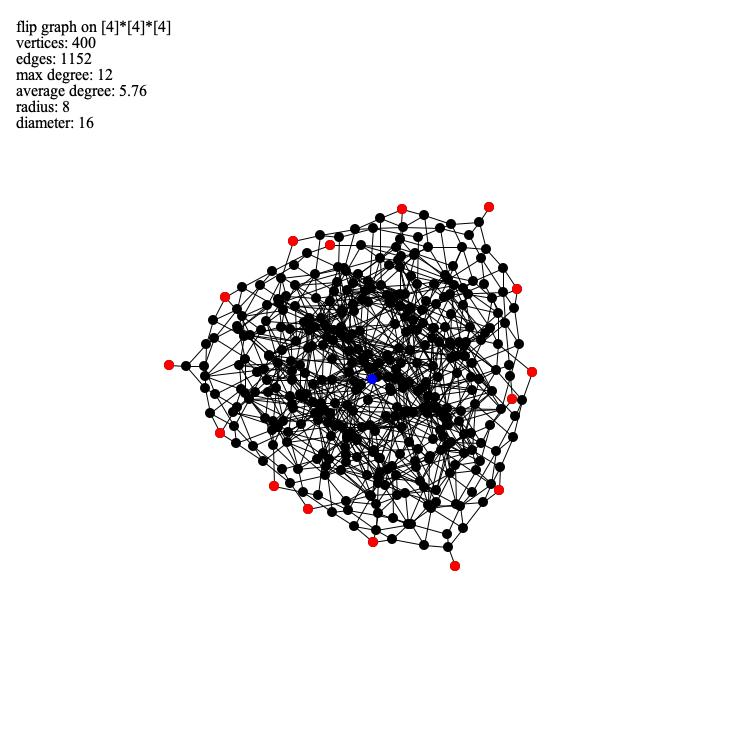
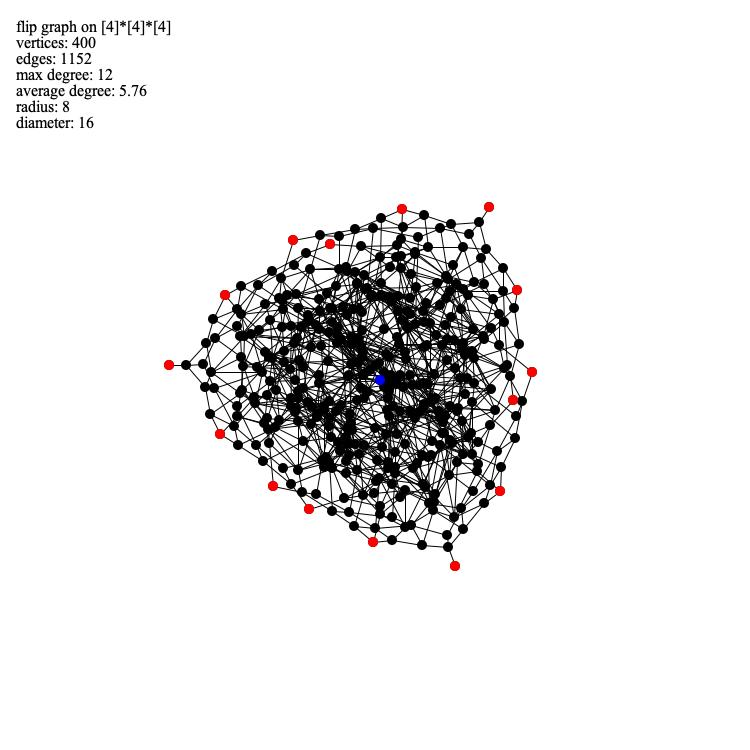
final commit of tonight

Changed region(s): [[0.2453, 0.276, 0.7053, 0.736]]

diff --git a/holden/GraphVisualization.java b/holden/GraphVisualization.java
@@ -113,7 +113,7 @@ public class GraphVisualization extends JFrame {
 
     // adjusts locations of vertices based on forces
     private void adjust() {
-        int iterations = 1000; // controls how many iterations adjust() acts for
+        int iterations = (int) (1000 * Math.min(1, 256.0 / graph.getVertexCount())); // controls how many iterations adjust() acts for
         for (int counter = 0; counter < iterations; counter++) {
             Map<Vertex, CoordinatePair> forces = new HashMap<Vertex, CoordinatePair>();
             for (Vertex v: graph.getVertices()) {
